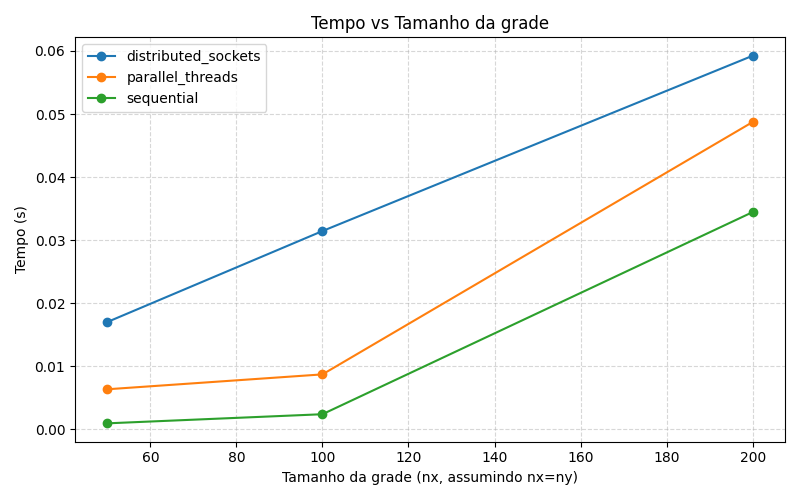
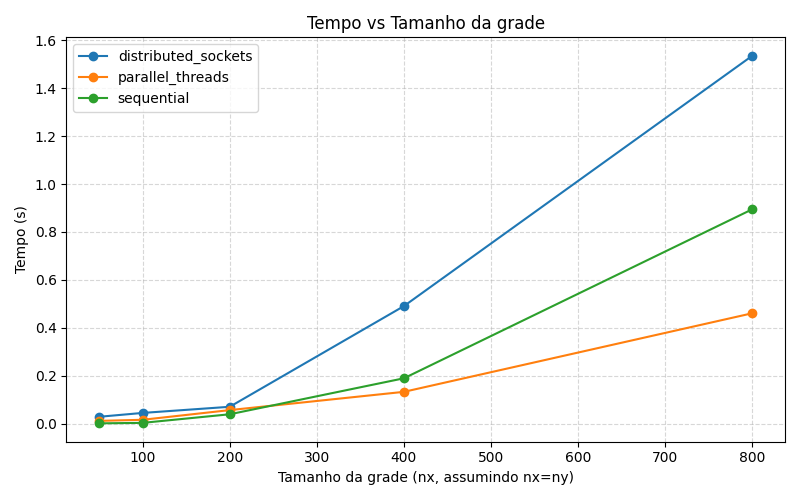
Implementa versao distribuida com sockets 1-2-4 workers

diff --git a/analysis.md b/analysis.md
@@ -1,55 +1,85 @@
 ## Metodologia
-- Experimentos: grades 50x50, 100x100, 200x200; 100 iteracoes Jacobi; bordas fixas; regiao quente desativada no benchmark (padrao do script). Uma execucao por combinacao (sem repeticoes/média).
-- Abordagens: sequencial; threads com 1, 2 e 4 trabalhadores (ThreadPoolExecutor, divisao por faixas de linha); distribuida via sockets com 1 e 2 workers (master repassa bloco completo e linhas fantasmas a cada iteracao).
+- Experimentos: grades 50x50, 100x100, 200x200, 400x400 e 800x800 com 100 iteracoes Jacobi; bordas fixas; regiao quente desativada. Dataset extra: 400x400 e 800x800 tambem com 200 iteracoes.
+- Abordagens: sequencial; threads com 1, 2 e 4 trabalhadores (ThreadPoolExecutor, divisao por faixas de linha); distribuida via sockets com 1, 2 e 4 workers (master repassa bloco completo + linhas fantasmas a cada iteracao).
 - Medicao de tempo: `time.perf_counter` medindo apenas a simulacao; sem descarte de aquecimento.
 - Hardware/OS/Python: nao informado (preencher CPU, RAM, SO, versao Python) para contextualizar os tempos.
-- Dados fonte: `results.csv` gerado via `benchmark.py`; graficos esperados em `tempo_vs_tamanho.png`, `tempo_vs_threads.png`, `tempo_vs_workers.png` usando `plot_results.py`.
+- Dados fonte: `results.csv` (iteracao 100) e `results_iter200.csv` (iteracao 200 nos tamanhos grandes) gerados via `benchmark.py`; graficos em `tempo_vs_tamanho.png`, `tempo_vs_threads.png`, `tempo_vs_workers.png` e `iter200/*.png` produzidos por `plot_results.py`.
 
 ## Resultados
-Tempos (s) observados no `results.csv` (uma execucao por caso):
+Tempos (s) no `results.csv` (100 iteracoes, sem regiao quente):
 
 | abordagem             | nx  | ny  | iter | threads | workers | tempo (s)  |
 |-----------------------|-----|-----|------|---------|---------|------------|
-| sequencial            | 50  | 50  | 100  | -       | -       | 0.000925   |
-| threads               | 50  | 50  | 100  | 1       | -       | 0.006330   |
-| threads               | 50  | 50  | 100  | 2       | -       | 0.010696   |
-| threads               | 50  | 50  | 100  | 4       | -       | 0.017067   |
-| distribuido (sockets) | 50  | 50  | 100  | -       | 1       | 0.022332   |
-| distribuido (sockets) | 50  | 50  | 100  | -       | 2       | 0.016998   |
-| sequencial            | 100 | 100 | 100  | -       | -       | 0.002372   |
-| threads               | 100 | 100 | 100  | 1       | -       | 0.008692   |
-| threads               | 100 | 100 | 100  | 2       | -       | 0.012917   |
-| threads               | 100 | 100 | 100  | 4       | -       | 0.021097   |
-| distribuido (sockets) | 100 | 100 | 100  | -       | 1       | 0.039690   |
-| distribuido (sockets) | 100 | 100 | 100  | -       | 2       | 0.031432   |
-| sequencial            | 200 | 200 | 100  | -       | -       | 0.034443   |
-| threads               | 200 | 200 | 100  | 1       | -       | 0.048733   |
-| threads               | 200 | 200 | 100  | 2       | -       | 0.053379   |
-| threads               | 200 | 200 | 100  | 4       | -       | 0.057484   |
-| distribuido (sockets) | 200 | 200 | 100  | -       | 1       | 0.201914   |
-| distribuido (sockets) | 200 | 200 | 100  | -       | 2       | 0.059247   |
+| sequencial            | 50  | 50  | 100  | -       | -       | 0.001599   |
+| threads               | 50  | 50  | 100  | 1       | -       | 0.011876   |
+| threads               | 50  | 50  | 100  | 2       | -       | 0.018873   |
+| threads               | 50  | 50  | 100  | 4       | -       | 0.027570   |
+| distribuido (sockets) | 50  | 50  | 100  | -       | 1       | 0.036838   |
+| distribuido (sockets) | 50  | 50  | 100  | -       | 2       | 0.028941   |
+| distribuido (sockets) | 50  | 50  | 100  | -       | 4       | 0.033096   |
+| sequencial            | 100 | 100 | 100  | -       | -       | 0.003575   |
+| threads               | 100 | 100 | 100  | 1       | -       | 0.016415   |
+| threads               | 100 | 100 | 100  | 2       | -       | 0.021078   |
+| threads               | 100 | 100 | 100  | 4       | -       | 0.035219   |
+| distribuido (sockets) | 100 | 100 | 100  | -       | 1       | 0.060908   |
+| distribuido (sockets) | 100 | 100 | 100  | -       | 2       | 0.045028   |
+| distribuido (sockets) | 100 | 100 | 100  | -       | 4       | 0.053809   |
+| sequencial            | 200 | 200 | 100  | -       | -       | 0.039413   |
+| threads               | 200 | 200 | 100  | 1       | -       | 0.059680   |
+| threads               | 200 | 200 | 100  | 2       | -       | 0.056805   |
+| threads               | 200 | 200 | 100  | 4       | -       | 0.070584   |
+| distribuido (sockets) | 200 | 200 | 100  | -       | 1       | 0.254716   |
+| distribuido (sockets) | 200 | 200 | 100  | -       | 2       | 0.084905   |
+| distribuido (sockets) | 200 | 200 | 100  | -       | 4       | 0.070671   |
+| sequencial            | 400 | 400 | 100  | -       | -       | 0.189553   |
+| threads               | 400 | 400 | 100  | 1       | -       | 0.211661   |
+| threads               | 400 | 400 | 100  | 2       | -       | 0.148828   |
+| threads               | 400 | 400 | 100  | 4       | -       | 0.133015   |
+| distribuido (sockets) | 400 | 400 | 100  | -       | 1       | 0.666881   |
+| distribuido (sockets) | 400 | 400 | 100  | -       | 2       | 0.491561   |
+| distribuido (sockets) | 400 | 400 | 100  | -       | 4       | 0.490701   |
+| sequencial            | 800 | 800 | 100  | -       | -       | 0.894716   |
+| threads               | 800 | 800 | 100  | 1       | -       | 0.814166   |
+| threads               | 800 | 800 | 100  | 2       | -       | 0.555875   |
+| threads               | 800 | 800 | 100  | 4       | -       | 0.460847   |
+| distribuido (sockets) | 800 | 800 | 100  | -       | 1       | 2.203719   |
+| distribuido (sockets) | 800 | 800 | 100  | -       | 2       | 1.575788   |
+| distribuido (sockets) | 800 | 800 | 100  | -       | 4       | 1.535139   |
 
-Speedup observado vs sequencial (S = Tseq / T):
-- 50x50x100: threads 1/2/4 => 0.15 / 0.09 / 0.05 (todos mais lentos); distrib 1 => 0.04; distrib 2 => 0.05.
-- 100x100x100: threads 1/2/4 => 0.27 / 0.18 / 0.11; distrib 1 => 0.06; distrib 2 => 0.08.
-- 200x200x100: threads 1/2/4 => 0.71 / 0.65 / 0.60; distrib 1 => 0.17; distrib 2 => 0.58.
+Tempos (s) no `results_iter200.csv` (200 iteracoes, apenas tamanhos grandes):
 
-Observacao: nenhum caso superou o sequencial; o melhor tempo paralelo/distribuido foi thread=1 em 200x200 (speedup ~0.71) e distributed workers=2 em 200x200 (speedup ~0.58).
+| abordagem             | nx  | ny  | iter | threads | workers | tempo (s)  |
+|-----------------------|-----|-----|------|---------|---------|------------|
+| sequencial            | 400 | 400 | 200  | -       | -       | 0.338561   |
+| threads               | 400 | 400 | 200  | 1       | -       | 0.360094   |
+| threads               | 400 | 400 | 200  | 2       | -       | 0.334579   |
+| threads               | 400 | 400 | 200  | 4       | -       | 0.269793   |
+| distribuido (sockets) | 400 | 400 | 200  | -       | 1       | 1.405030   |
+| distribuido (sockets) | 400 | 400 | 200  | -       | 2       | 1.215480   |
+| distribuido (sockets) | 400 | 400 | 200  | -       | 4       | 0.850298   |
+| sequencial            | 800 | 800 | 200  | -       | -       | 1.567302   |
+| threads               | 800 | 800 | 200  | 1       | -       | 1.635721   |
+| threads               | 800 | 800 | 200  | 2       | -       | 1.135940   |
+| threads               | 800 | 800 | 200  | 4       | -       | 0.907638   |
+| distribuido (sockets) | 800 | 800 | 200  | -       | 1       | 4.396430   |
+| distribuido (sockets) | 800 | 800 | 200  | -       | 2       | 3.112788   |
+| distribuido (sockets) | 800 | 800 | 200  | -       | 4       | 2.872709   |
+
+Speedup vs sequencial (S = Tseq / T):
+- 400x400x100: threads 2 => 1.27x; threads 4 => 1.43x; distribuido 4 => 0.39x (continua mais lento).
+- 800x800x100: threads 2 => 1.61x; threads 4 => 1.94x; distribuido 4 => 0.58x.
+- 400x400x200: threads 4 => 1.25x; distribuido 4 => 0.40x.
+- 800x800x200: threads 4 => 1.73x; distribuido 4 => 0.55x.
+- Grades pequenas (50/100/200): todos os paralelos seguem abaixo de 1x devido ao overhead.
 
 ## Discussao
-- Escalabilidade: tempos crescem com o tamanho da grade como esperado, mas nao ha ganho com threads/workers nos tamanhos testados; overhead domina.
-- Eficiencia: o custo de sincronizar a cada iteracao e copiar blocos supera o trabalho util em grades pequenas e iteracoes moderadas.
-- Limitacoes:
-  - Sobrecarga de threads (troca de contexto, saturacao de cache) torna execucoes multi-thread mais lentas que 1 thread.
-  - Custo de comunicacao via sockets elevado porque o master envia o bloco completo + linhas fantasmas em toda iteracao.
-  - Sincronizacao estrita por iteracao (barreira Jacobi) impede sobreposicao de comunicacao/compute.
-  - Restricoes de hardware nao informadas; desempenho pode variar conforme CPU/nucleos e rede/loopback.
-- Possiveis melhorias:
-  - Melhor particionamento/balanceamento (ex.: granularidade adaptativa, blocos mais largos para reduzir fronteiras).
-  - Usar multiprocessing ou processos com afinidade para contornar GIL em workloads CPU-bound.
-  - Reduzir comunicacao no distribuido (troca direta de fronteiras entre vizinhos, enviar so ghost rows em vez do bloco completo, compressao opcional).
-  - Tecnicas de vetorizacao/Numba para acelerar o kernel numerico e aumentar a razao computacao/comunicacao.
+- Escalabilidade: para 50-200 o overhead domina; a partir de 400 pontos por lado as threads passam a trazer ganho (ate ~1.9x em 800x800x100). O distribuido segue atrasado mesmo com 4 workers.
+- Efeito das iteracoes: dobrar as iteracoes melhora a razao computacao/comunicacao; threads mantiveram ganho (1.25-1.73x), mas sockets ainda nao compensaram o custo de enviar blocos inteiros a cada passo.
+- Overheads principais: copia de blocos completos e sincronizacao por iteracao no master/worker; troca de contexto e limites de cache no multithreading; ausencia de afinidade/processos para fugir do GIL.
+- Limitacoes: apenas 1 execucao por combinacao (sem media/DP); hardware nao descrito; sem afinidade de CPU ou ajustes de buffer de rede.
+- Possiveis melhorias: trocar protocolo para enviar so ghost rows entre vizinhos; evitar recopia do bloco inteiro; usar multiprocessing/Numba para aumentar computacao util; rodar varias repeticoes e medir dispersao; testar tamanhos ainda maiores para sockets.
 
 ## Conclusao
-- Nos cenarios testados, o sequencial foi mais rapido; paralelismo por threads ou sockets nao trouxe speedup devido ao overhead e ao tamanho relativamente pequeno dos problemas.
-- Para buscar ganhos: experimentar grades maiores (ex.: 400x400, 800x800) e mais iteracoes, repetir execucoes para medias/DP, otimizar comunicacao e considerar multiprocessing/Numba.
+- Com tamanhos maiores (400+), a versao com threads finalmente supera o sequencial (ate ~1.9x em 800x800x100); para tamanhos pequenos continua mais lenta.
+- A versao distribuida com sockets ainda fica atras da sequencial em todos os cenarios testados, embora 4 workers reduzam o tempo comparado a 1-2.
+- Proximos passos uteis: repetir testes para medias/IC, relatar hardware, experimentar otimizacoes de comunicacao e alternativas como multiprocessing/Numba para empurrar ganhos em cargas maiores.
